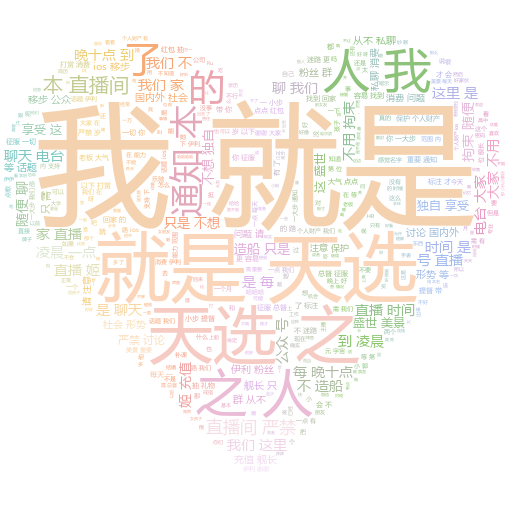
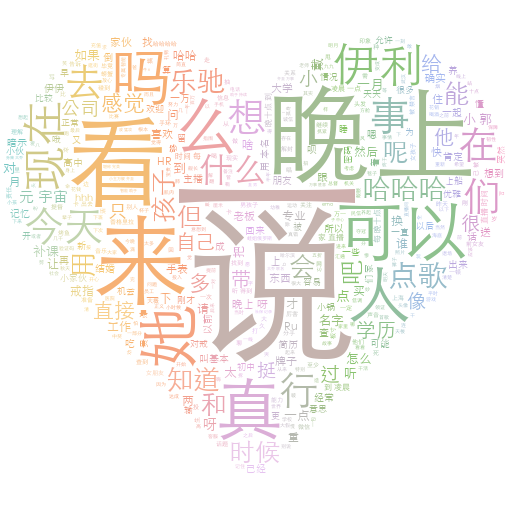
优化过滤机器人

diff --git a/generate.py b/generate.py
@@ -53,18 +53,25 @@ def readDatas(file):
 def analyseUserTop(datas):
     result = {}
     analyse = {}
+    skipNickname = ['伊利专属智能助手', '原来我不是白羊座']
     for data in datas:
+        if data['nickname'] in skipNickname:
+            continue
         isIn = data['nickname'] in analyse.keys()
         if not isIn:
             analyse[data['nickname']] = 0
     for data in datas:
+        if data['nickname'] in skipNickname:
+            continue
         isIn = data['nickname'] in analyse.keys()
         if isIn:
             analyse[data['nickname']] += 1
         else:
             analyse[data['nickname']] = 0
-    result['label'] = list(analyse.keys())
-    result['value'] = list(analyse.values())
+    d_order = sorted(analyse.items(), key=lambda x: x[1], reverse=True)
+    sortedDict = dict(d_order)
+    result['label'] = list(sortedDict.keys())
+    result['value'] = list(sortedDict.values())
     return result
 
 def analyseTime(datas):
@@ -106,14 +113,26 @@ def wordcloud(filename, datas):
     filename = filename[13:21] + '.png'
     outputPath = './wordcloud/'
     allContent = ''
+    skipNickname = ['伊利专属智能助手', '原来我不是白羊座']
     for data in datas:
+        if data['content'].find('我就是天选之人') >= 0:
+            continue
+        if data['content'].find('点点红包抽礼物') >= 0:
+            continue
+        if data['nickname'] in skipNickname:
+            continue
         allContent += data['content']
+    # print(allContent)
     word_list = jieba.cut(allContent)
     result = " ".join(word_list)  # 分词用空格隔开
+    result = result.replace('的', '').replace('我', '').replace('你', '').replace('啊', '').replace('了', ''). \
+        replace('就', '').replace('是', '').replace('这', '').replace('不', '').replace('都', '').replace('好', ''). \
+        replace('有', '').replace('要', '').replace('没', '').replace('还', '').replace('也', '').replace('个', '').\
+        replace('那', '')
     stylecloud.gen_stylecloud(
         text=result,  # 上面分词的结果作为文本传给text参数
         size=512,
-        font_path='msyh.ttc',  # 字体设置
+        font_path='STHeiti Light.ttc',  # 字体设置
         palette='cartocolors.qualitative.Pastel_7',  # 调色方案选取，从palettable里选择
         gradient='horizontal',  # 渐变色方向选了垂直方向
         icon_name='fas fa-heart',  # 蒙版选取，从Font Awesome里选
